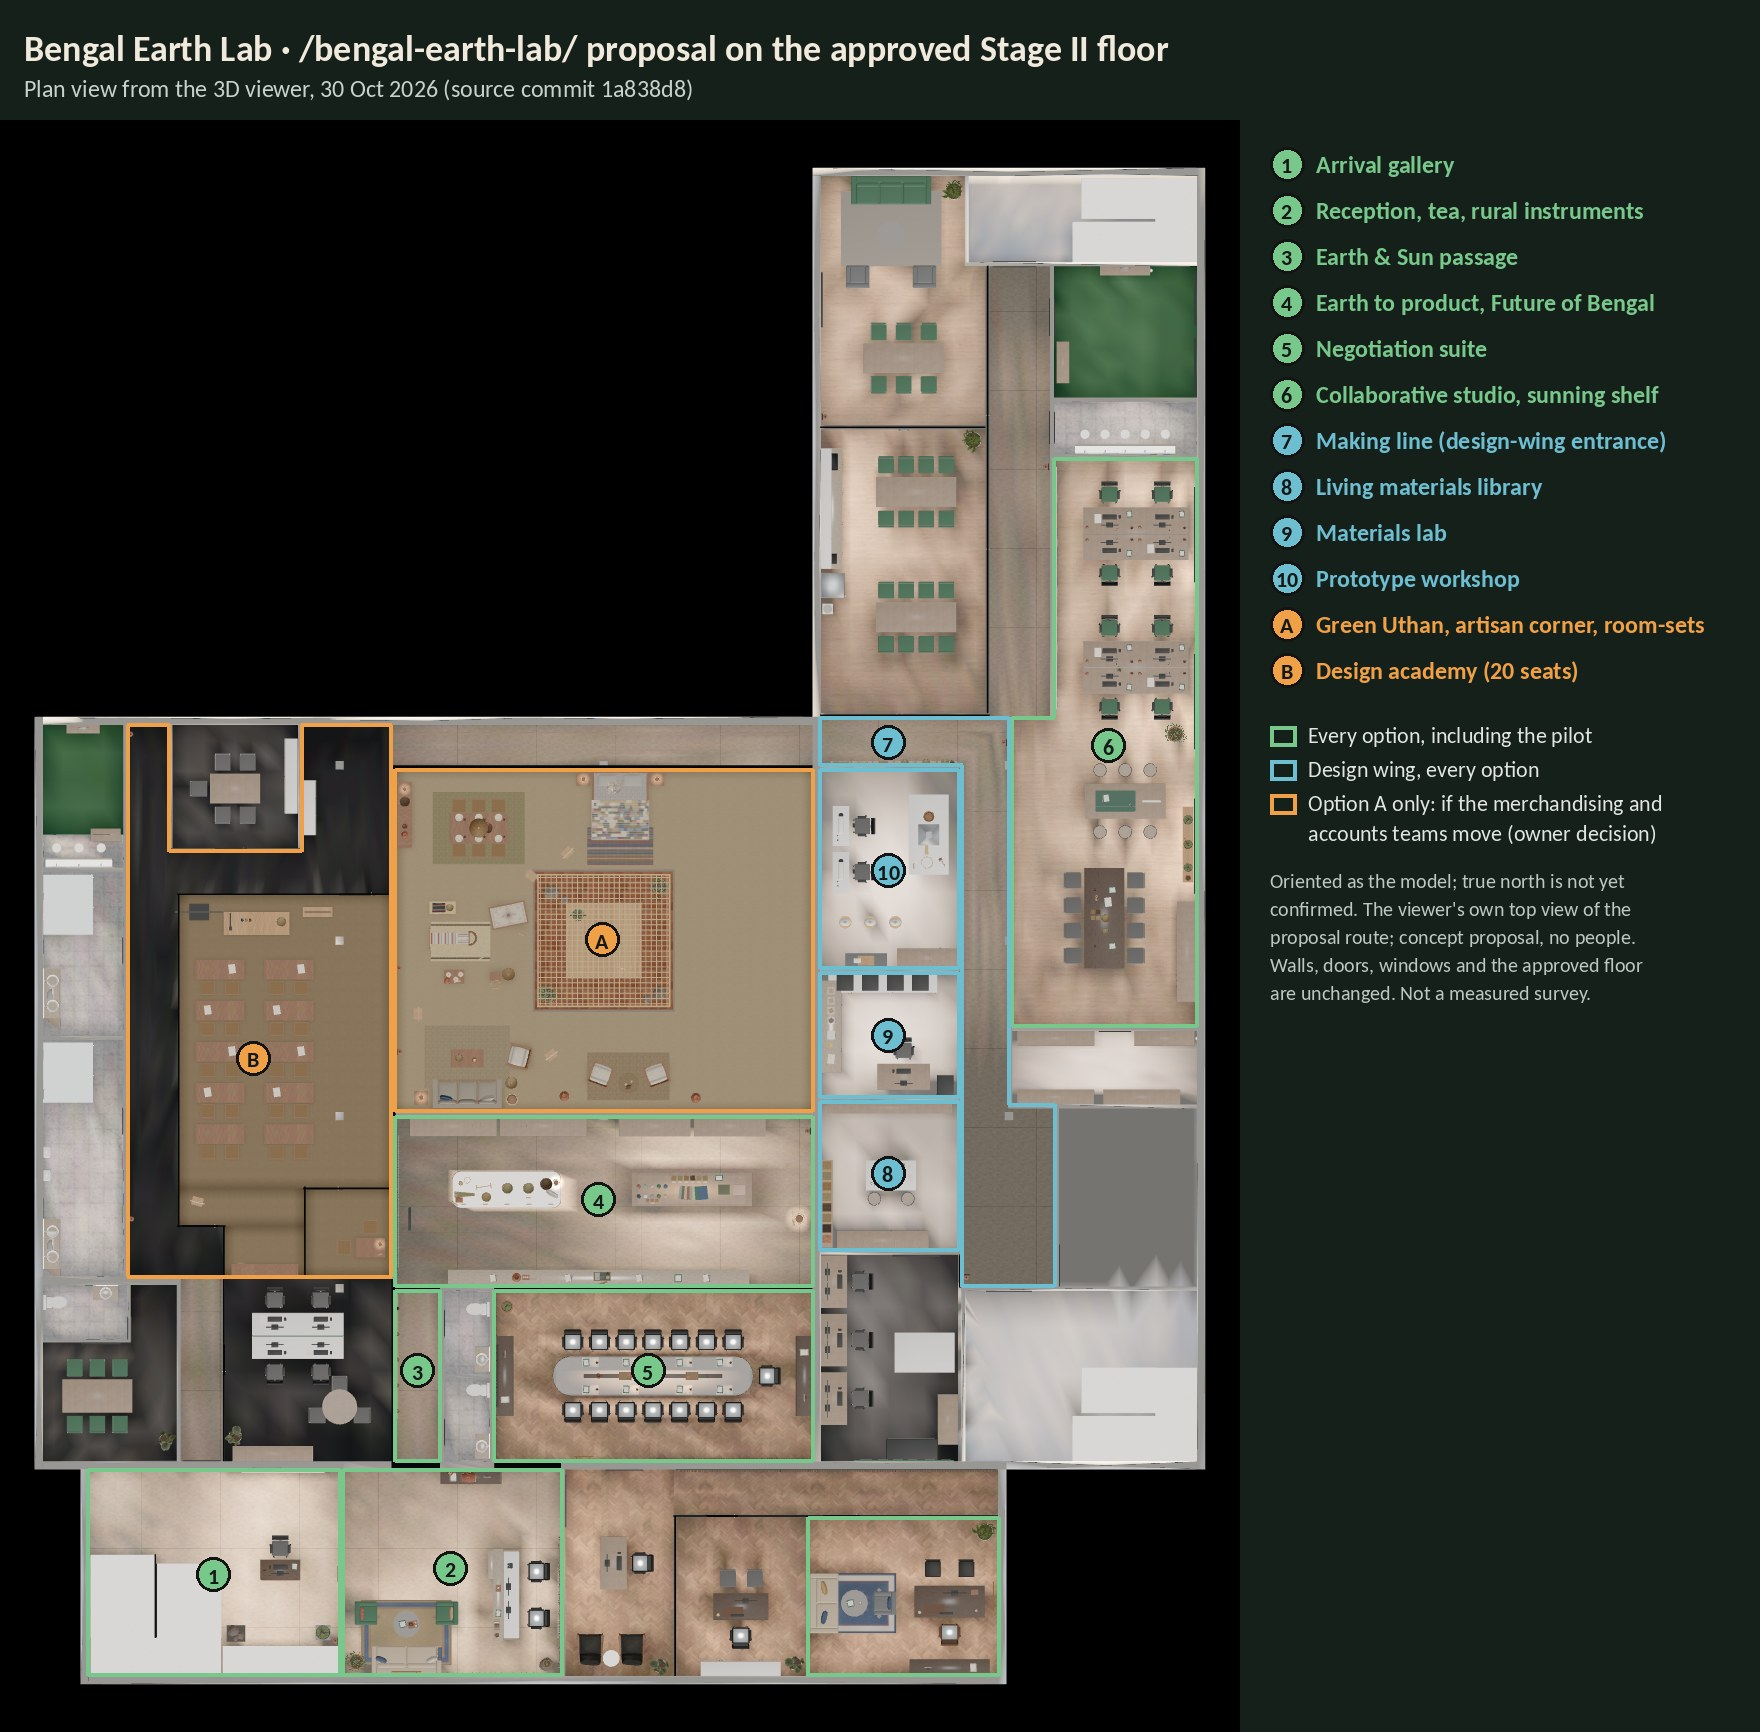
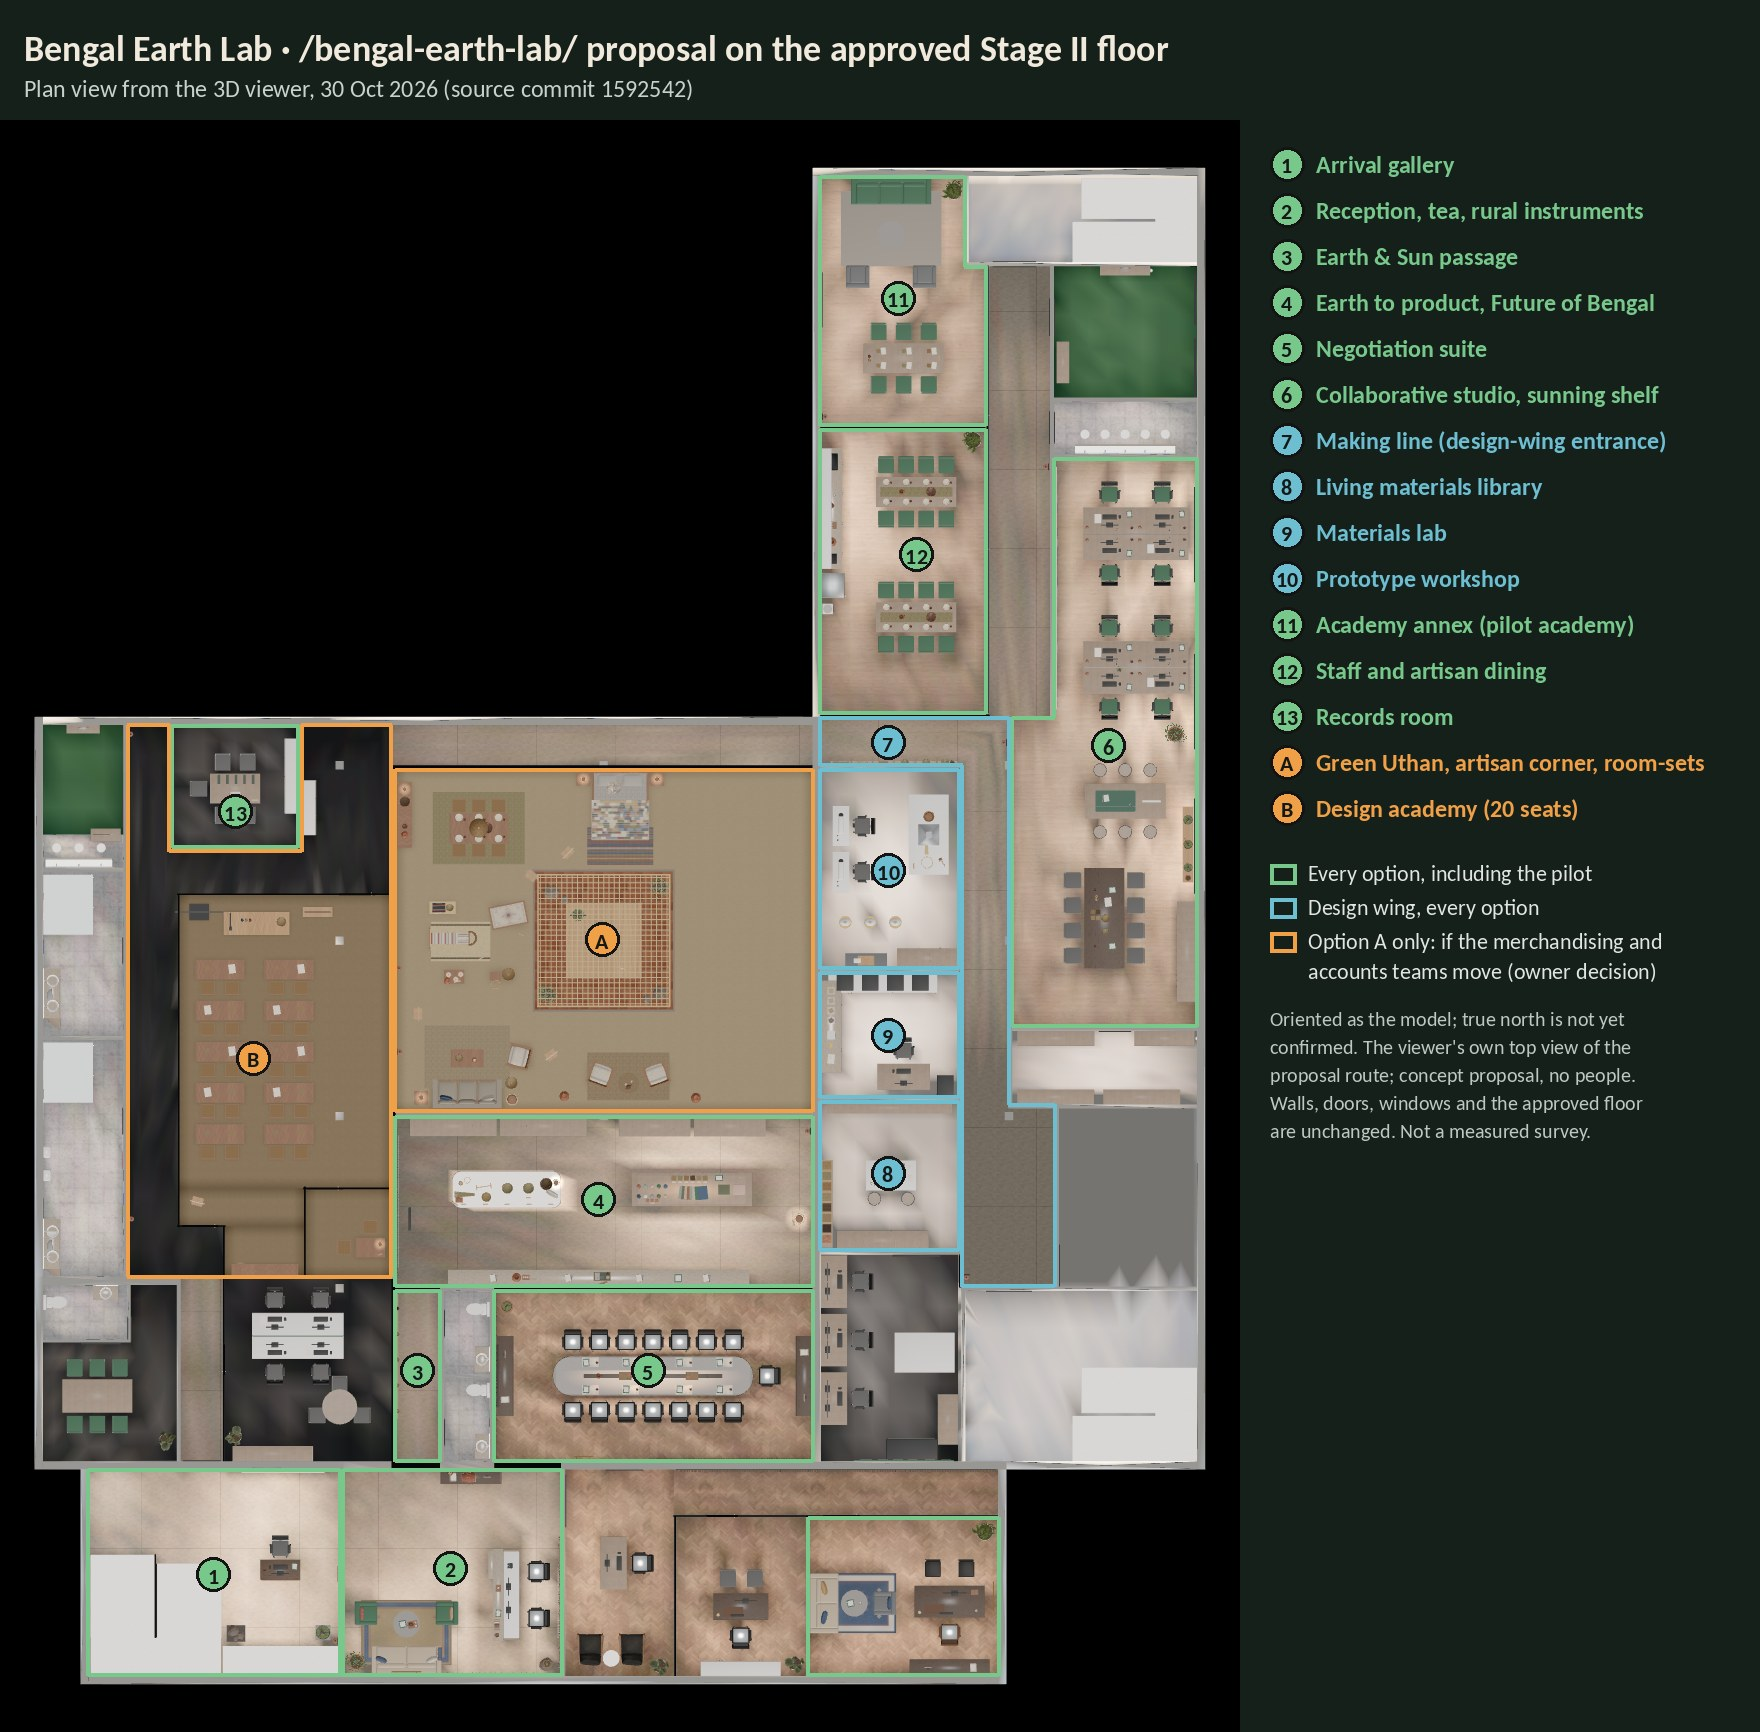
Bengal Earth Lab: annotated plan refreshed at increment 4 (1592542) with the pilot rooms
Claude-Session: https://claude.ai/code/session_019J6nTRSYGkqYLBQiQa9fAH

diff --git a/GARMENT_OFFICE_REALISM_UPGRADE/08_REALISTIC/qa/bel-20261030/plan_annotate.py b/GARMENT_OFFICE_REALISM_UPGRADE/08_REALISTIC/qa/bel-20261030/plan_annotate.py
@@ -14,7 +14,7 @@ cx, cz = cam['position'][0], cam['position'][2]  # up = -z (model orientation; t
 P = lambda x, z: ((x - cx) * k + W / 2, (z - cz) * k + H / 2)
 polys = {r['zone']: r['polygon_xz'] for r in meta['rooms']}
 GREEN, ORANGE, TEAL = (120, 200, 140), (240, 160, 70), (110, 190, 210)
-groups = [(GREEN, ['Z01', 'Z02', 'Z03', 'Z30', 'Z08', 'Z18', 'Z12']), (TEAL, ['Z15', 'Z16', 'Z17', 'Z22']), (ORANGE, ['Z07', 'Z06'])]
+groups = [(GREEN, ['Z01', 'Z02', 'Z03', 'Z30', 'Z08', 'Z18', 'Z12', 'Z21', 'Z20', 'Z09']), (TEAL, ['Z15', 'Z16', 'Z17', 'Z22']), (ORANGE, ['Z07', 'Z06'])]
 canvas = Image.new('RGB', (W + 520, H + 120), (22, 32, 27)); canvas.paste(im, (0, 120))
 d = ImageDraw.Draw(canvas)
 F = lambda s, b=False: ImageFont.truetype(f"/usr/share/fonts/truetype/crosextra/Carlito-{'Bold' if b else 'Regular'}.ttf", s)
@@ -26,6 +26,7 @@ labels = [   # (text, x, z of the anchor, colour)
     ('1 Arrival gallery', 3.8, 3.2, GREEN), ('2 Reception, tea, rural instruments', 11.0, 3.0, GREEN), ('3 Earth & Sun passage', 10.0, -3.0, GREEN),
     ('4 Earth to product, Future of Bengal', 15.5, -8.2, GREEN), ('5 Negotiation suite', 17.0, -3.0, GREEN), ('6 Collaborative studio, sunning shelf', 31.0, -22.0, GREEN),
     ('7 Making line (design-wing entrance)', 24.3, -22.1, TEAL), ('8 Living materials library', 24.3, -9.0, TEAL), ('9 Materials lab', 24.3, -13.2, TEAL), ('10 Prototype workshop', 24.3, -18.2, TEAL),
+    ('11 Academy annex (pilot academy)', 24.6, -35.6, GREEN), ('12 Staff and artisan dining', 25.15, -27.8, GREEN), ('13 Records room', 4.45, -20.0, GREEN),
     ('A Green Uthan, artisan corner, room-sets', 15.6, -16.1, ORANGE), ('B Design academy (20 seats)', 5.0, -12.5, ORANGE),
 ]
 x0 = W + 30; y = 150
@@ -43,5 +44,5 @@ d.text((x0 + 38, y - 4), 'accounts teams move (owner decision)', font=F(22), fil
 for t in ['Oriented as the model; true north is not yet', 'confirmed. The viewer\'s own top view of the', 'proposal route; concept proposal, no people.', 'Walls, doors, windows and the approved floor', 'are unchanged. Not a measured survey.']:
     d.text((x0, y), t, font=F(20), fill=(190, 200, 194)); y += 28
 d.text((24, 26), 'Bengal Earth Lab · /bengal-earth-lab/ proposal on the approved Stage II floor', font=F(36, True), fill=(241, 234, 220))
-d.text((24, 74), 'Plan view from the 3D viewer, 30 Oct 2026 (source commit 1a838d8)', font=F(24), fill=(200, 210, 204))
+d.text((24, 74), 'Plan view from the 3D viewer, 30 Oct 2026 (source commit 1592542)', font=F(24), fill=(200, 210, 204))
 canvas.save(out, quality=88); print(out, canvas.size)
